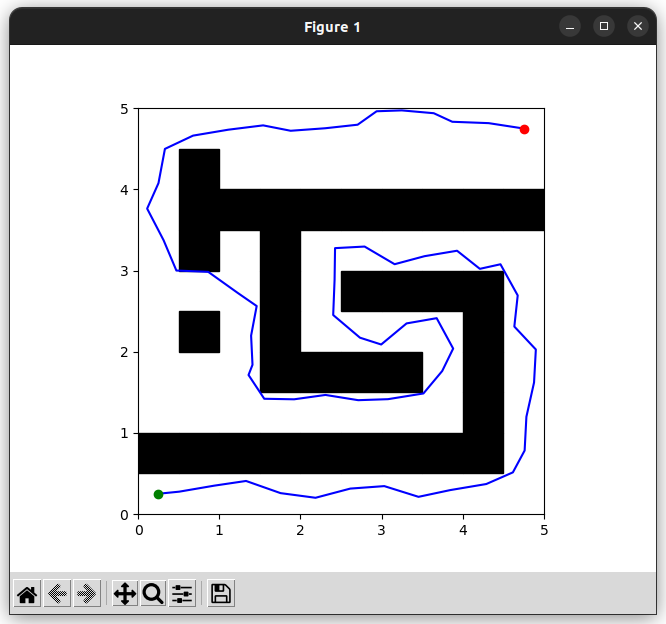
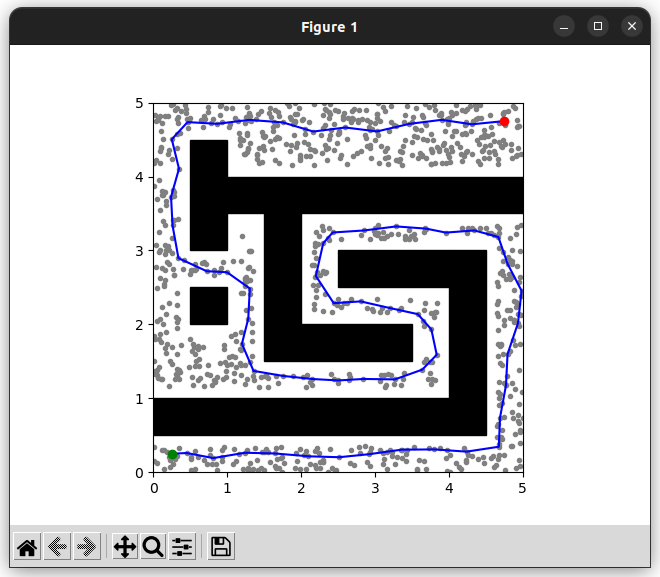
GridMapでmarginを指定できるように変更

Changed region(s): [[0.1818, 0.156, 0.8182, 0.8735], [0.0, 0.9047, 1.0, 0.9983], [0.0, 0.0312, 1.0, 0.0936]]

diff --git a/include/cpp_robotics/path_planning/path_planning_utils.hpp b/include/cpp_robotics/path_planning/path_planning_utils.hpp
@@ -2,6 +2,8 @@
 
 #include <Eigen/Dense>
 #include "cpp_robotics/utility/random.hpp"
+#include "cpp_robotics/algorithm/kdtree.hpp"
+#include <unordered_set>
 
 namespace cpp_robotics
 {
@@ -63,24 +65,60 @@ public:
 
     template <int N = Vector::RowsAtCompileTime,
               typename std::enable_if<N != Eigen::Dynamic, int>::type = 0>
-    GridMap(std::vector<GridVector> obstacles, GridVector map_size, double resolution)
-        : PathPlanningMap<Vector>(), obstacles_(obstacles), map_size_(map_size), resolution_(resolution) 
+    GridMap(std::vector<GridVector> obstacles, GridVector map_size, double resolution, double margin = 0.0)
+        : PathPlanningMap<Vector>(), map_size_(map_size), resolution_(resolution), margin_(margin)
     {
+        for(const auto& o : obstacles)
+        {
+            obstacles_.insert(o);
+        }
+        if(0.0 < margin_)
+        {
+            kdtree_.build(obstacles, this->dimension());
+        }
     }
 
     template <int N = Vector::RowsAtCompileTime,
               typename std::enable_if<N == Eigen::Dynamic, int>::type = 0>
-    GridMap(size_t dim, std::vector<GridVector> obstacles, GridVector map_size, double resolution)
-        : PathPlanningMap<Vector>(dim), obstacles_(obstacles), map_size_(map_size), resolution_(resolution) 
+    GridMap(size_t dim, std::vector<GridVector> obstacles, GridVector map_size, double resolution, double margin = 0.0)
+        : PathPlanningMap<Vector>(dim), map_size_(map_size), resolution_(resolution), margin_(margin)
     {
+        for(const auto& o : obstacles)
+        {
+            obstacles_.insert(o);
+        }
+        if(0.0 < margin_)
+        {
+            kdtree_.build(obstacles, this->dimension());
+        }
     }
 
     bool is_valid(const Vector &point) const override
     {
         GridVector gp = (point/resolution_).template cast<int>();
-        if(auto it = std::find(obstacles_.begin(), obstacles_.end(), gp); it != obstacles_.end())
+        if(obstacles_.find(gp) != obstacles_.end())
         {
             return false;
+        }
+        if(0.0 < margin_)
+        {
+            Vector min_diff;
+            if constexpr( Dim == Eigen::Dynamic )
+            {
+                min_diff.resize(this->dimension());
+            }
+            auto near_points = kdtree_.radius_search_points(gp, margin_/resolution_ + 2);
+            for(auto& ngp : near_points)
+            {
+                for(size_t i = 0; i < this->dimension(); i++)
+                {
+                    min_diff(i) = std::max({ngp(i)*resolution_ - point(i), point(i) - (ngp(i)+1)*resolution_, 0.0});
+                }
+                if(min_diff.squaredNorm() < margin_*margin_)
+                {
+                    return false;
+                }
+            }
         }
         return true;
     }
@@ -98,21 +136,36 @@ public:
             return false;
         }
 
-        GridVector look = gp1;
-        Eigen::VectorXd look_start = (from/resolution_);
-        Eigen::VectorXd diff = (to/resolution_) - look_start;
-        for(size_t i = 0; i < 100; i++) {
-            GridVector next = (look_start + i*diff/100.0).template cast<int>();
-            if(next == gp2) {
-                break;
-            }
-            if(next != look) {
-                if(auto it = std::find(obstacles_.begin(), obstacles_.end(), next); it != obstacles_.end()) {
+        const size_t split = 30;
+        if (0.0 < margin_)
+        {
+            Eigen::VectorXd diff = to - from;
+            for(size_t i = 0; i < split; i++) {
+                Vector nextd = (from + i*diff/split);
+                if(not is_valid(nextd)) {
                     return false;
                 }
-                look = next;
             }
         }
+        else
+        {
+            GridVector look = gp1;
+            Eigen::VectorXd diff = to - from;
+            for(size_t i = 0; i < split; i++) {
+                Vector nextd = (from + i*diff/split);
+                GridVector next = (nextd/resolution_).template cast<int>();
+                if(next == gp2) {
+                    break;
+                }
+                if(next != look) {
+                    if(not is_valid(nextd)) {
+                        return false;
+                    }
+                    look = next;
+                }
+            }
+        }
+
         return true;
     }
 
@@ -123,8 +176,15 @@ public:
         {
             p.resize(this->dimension());
         }
-        for (size_t i = 0; i < this->dimension(); i++) {
-            p(i) = rand_engine_.value() * map_size_(i)*resolution_;
+        for(size_t r = 0; r < 1000; r++)
+        {
+            for (size_t i = 0; i < this->dimension(); i++) {
+                p(i) = rand_engine_.value() * map_size_(i)*resolution_;
+            }
+            if(is_valid(p))
+            {
+                return p;
+            }
         }
         return p;
     }
@@ -135,9 +195,26 @@ public:
     }
 
 private:
-    std::vector<GridVector> obstacles_;
+    struct VectorHash {
+        size_t operator()(const GridVector& v) const {
+            size_t seed = 0;
+            for (int i = 0; i < v.size(); ++i) {
+                seed ^= std::hash<int>()(v[i]) + 0x9e3779b9 + (seed << 6) + (seed >> 2);
+            }
+            return seed;
+        }
+    };
+
+    struct VectorEqual {
+        bool operator()(const GridVector& v1, const GridVector& v2) const {
+            return v1 == v2;
+        }
+    };
+    std::unordered_set<GridVector, VectorHash, VectorEqual> obstacles_;
+    KDTree<GridVector> kdtree_;
     GridVector map_size_;
     double resolution_;
+    double margin_;
     UniformRealRandomEngine rand_engine_ = {0.0, 1.0};
 };
 

diff --git a/example/path_planning/navigation_diffbot.cpp b/example/path_planning/navigation_diffbot.cpp
@@ -41,7 +41,7 @@ void draw_robot(Eigen::Vector3d state, double width = 0.4, double height = 0.4, 
     double y4 = y + sin(theta) * (-width / 2) + cos(theta) * (height / 2);
     std::vector<double> x_data = {x1, x2, x3, x4, x1};
     std::vector<double> y_data = {y1, y2, y3, y4, y1};
-    plt::plot(x_data, y_data, "b-");
+    plt::plot(x_data, y_data, "k-");
 
     std::vector<double> dir_x_data = {x, x + cos(theta) * heading};
     std::vector<double> dir_y_data = {y, y + sin(theta) * heading};
@@ -91,11 +91,14 @@ int main() {
         {8, 1},
     };
     double obstacle_size = 0.5;
-    GridMap2d map(obstalces, Eigen::Vector2i(10, 10), obstacle_size);
+    double margin = 0.2;
+    GridMap2d global_planning_map(obstalces, Eigen::Vector2i(10, 10), obstacle_size, margin);
 
     Eigen::Vector2d x_init(0.25, 0.25);
     Eigen::Vector2d x_goal(4.75, 4.75);
-    auto waypoint_list = fmt_star<Eigen::Vector2d>(map, x_init, x_goal);
+    FMTStarConfig fmt_star_config;
+    fmt_star_config.sampling_num = 2000;
+    auto waypoint_list = fmt_star<Eigen::Vector2d>(global_planning_map, x_init, x_goal, fmt_star_config);
 
     if(waypoint_list.size() == 0)
     {
@@ -111,17 +114,18 @@ int main() {
 
     LinePath path(waypoint_list);
 
-    DWAConfig config;
-    config.robot_radius = 0.5;
-    config.max_velocity = 3.0;
-    config.max_angular_velocity = 3.0;
-    config.windows_size = 100;
-    config.dt = 0.1;
-    config.predict_time = 0.5;
-    config.heading_angle_weight = 3.0;
-    config.heading_velocity_weight = 0.5;
-    config.to_goal_weight = 3.0;
-    DWA dwa(map, config);
+    GridMap2d local_planning_map(obstalces, Eigen::Vector2i(10, 10), obstacle_size);
+    DWAConfig dwa_config;
+    dwa_config.robot_radius = 0.5;
+    dwa_config.max_velocity = 3.0;
+    dwa_config.max_angular_velocity = 3.0;
+    dwa_config.windows_size = 100;
+    dwa_config.dt = 0.1;
+    dwa_config.predict_time = 0.5;
+    dwa_config.heading_angle_weight = 3.0;
+    dwa_config.heading_velocity_weight = 0.5;
+    dwa_config.to_goal_weight = 3.0;
+    DWA dwa(local_planning_map, dwa_config);
 
     const double sim_dt = 0.1;
     DiffBot robot(sim_dt);
@@ -147,11 +151,11 @@ int main() {
         // シミュレーション
         x = robot.eval(x, u);
 
-        draw_robot(x);
         plt::plot(waypoint_list_x, waypoint_list_y, "b");
         plt::plot({x_init(0)}, {x_init(1)}, "go");
         plt::plot({x_goal(0)}, {x_goal(1)}, "ro");
         plt::plot({dwa_goal(0)}, {dwa_goal(1)}, "bo");
+        draw_robot(x);
 
         // obstacles
         for(auto o : obstalces)

diff --git a/example/path_planning/fmt_star.cpp b/example/path_planning/fmt_star.cpp
@@ -44,29 +44,32 @@ int main() {
         {8, 1},
     };
     double obstacle_size = 0.5;
-    GridMap2d map(obstalces, Eigen::Vector2i(10, 10), obstacle_size);
+    double margin = 0.15;
+    GridMap2d map(obstalces, Eigen::Vector2i(10, 10), obstacle_size, margin);
 
     Eigen::Vector2d x_init(0.25, 0.25);
     Eigen::Vector2d x_goal(4.75, 4.75);
-    auto path = fmt_star<Eigen::Vector2d>(map, x_init, x_goal);
+    FMTStarConfig config;
+    config.sampling_num = 1000;
+    FMTStar<Eigen::Vector2d> fmt_star(map, config);
+    auto path = fmt_star.solve(x_init, x_goal);
 
     namespace plt = matplotlibcpp;
-    // result
-    if(path.size() == 0)
+
+    // sampling points
     {
-        std::cout << "No path found" << std::endl;
-    }
-    else
-    {
+        auto nodes = fmt_star.get_nodes();
         std::vector<double> x, y;
-        for(const auto& p : path)
+        for(const auto& p : nodes)
         {
-            x.push_back(p(0));
-            y.push_back(p(1));
+            x.push_back(p.point(0));
+            y.push_back(p.point(1));
         }
-        plt::plot(x, y, "b");
-        plt::plot({x_init(0)}, {x_init(1)}, "go");
-        plt::plot({x_goal(0)}, {x_goal(1)}, "ro");
+        std::map<std::string, std::string> kwargs;
+        kwargs["c"] = "gray";
+        kwargs["marker"] = ".";
+        kwargs["linestyle"] = "none";
+        plt::plot(x, y, kwargs);
     }
 
     // obstacles
@@ -85,6 +88,24 @@ int main() {
         y.push_back(obstacle_size*o(1)+obstacle_size);
         y.push_back(obstacle_size*o(1));
         plt::fill(x, y, std::map<std::string, std::string>{{"c", "k"}});
+    }
+
+    // result
+    if(path.size() == 0)
+    {
+        std::cout << "No path found" << std::endl;
+    }
+    else
+    {
+        std::vector<double> x, y;
+        for(const auto& p : path)
+        {
+            x.push_back(p(0));
+            y.push_back(p(1));
+        }
+        plt::plot(x, y, "b");
+        plt::plot({x_init(0)}, {x_init(1)}, "go");
+        plt::plot({x_goal(0)}, {x_goal(1)}, "ro");
     }
 
     plt::xlim(0, 5);

diff --git a/include/cpp_robotics/algorithm/kdtree.hpp b/include/cpp_robotics/algorithm/kdtree.hpp
@@ -197,8 +197,8 @@ private:
             return;
         
         auto p = points_[node->idx];
-        double dist = distance(p, point);
-        if(dist < radius)
+        double sq_dist = squared_distance(p, point);
+        if(sq_dist < radius*radius)
         {
             result.push_back(node->idx);
         }
@@ -225,14 +225,19 @@ private:
         debug_node_recursive(node->child[1], depth+1);
     }
 
-    double distance(const point_type &a, const point_type &b) const
+    double squared_distance(const point_type &a, const point_type &b) const
     {
         double len_sq = 0;
         for(size_t i = 0; i < dimention_; i++)
         {
             len_sq += std::pow(a[i]-b[i], 2);
         }
-        return std::sqrt(len_sq);
+        return len_sq;
+    }
+
+    double distance(const point_type &a, const point_type &b) const
+    {
+        return std::sqrt(squared_distance(a, b));
     }
 
     size_t dimention_;
